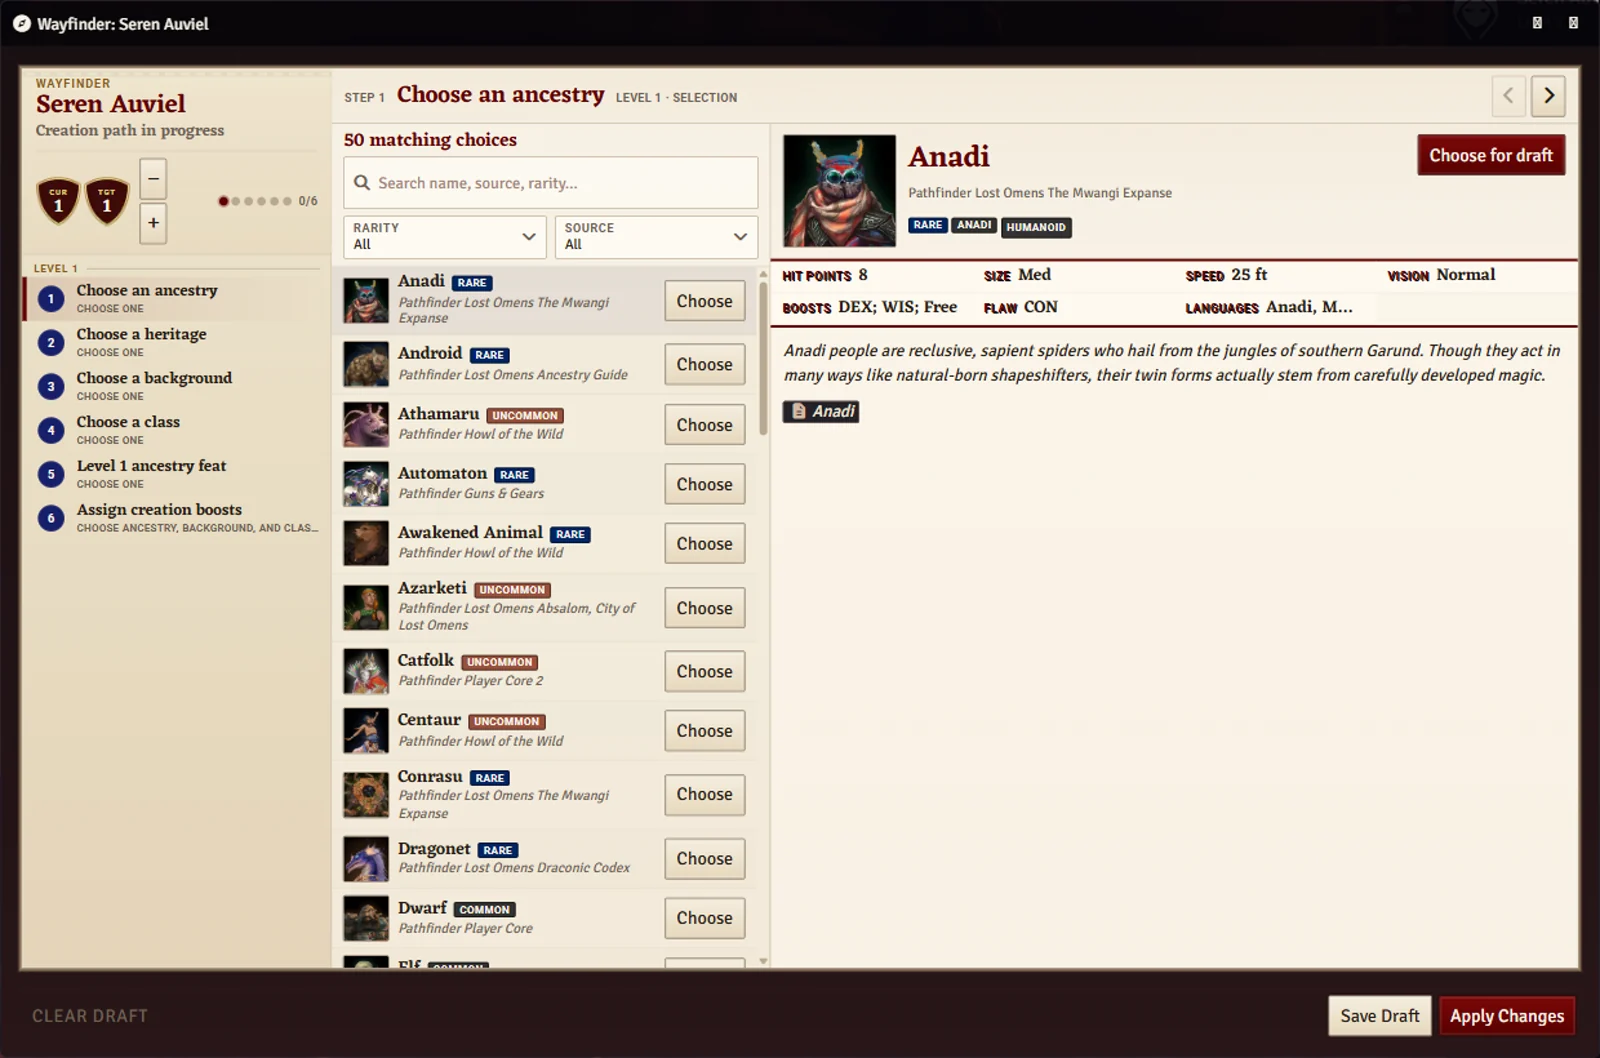
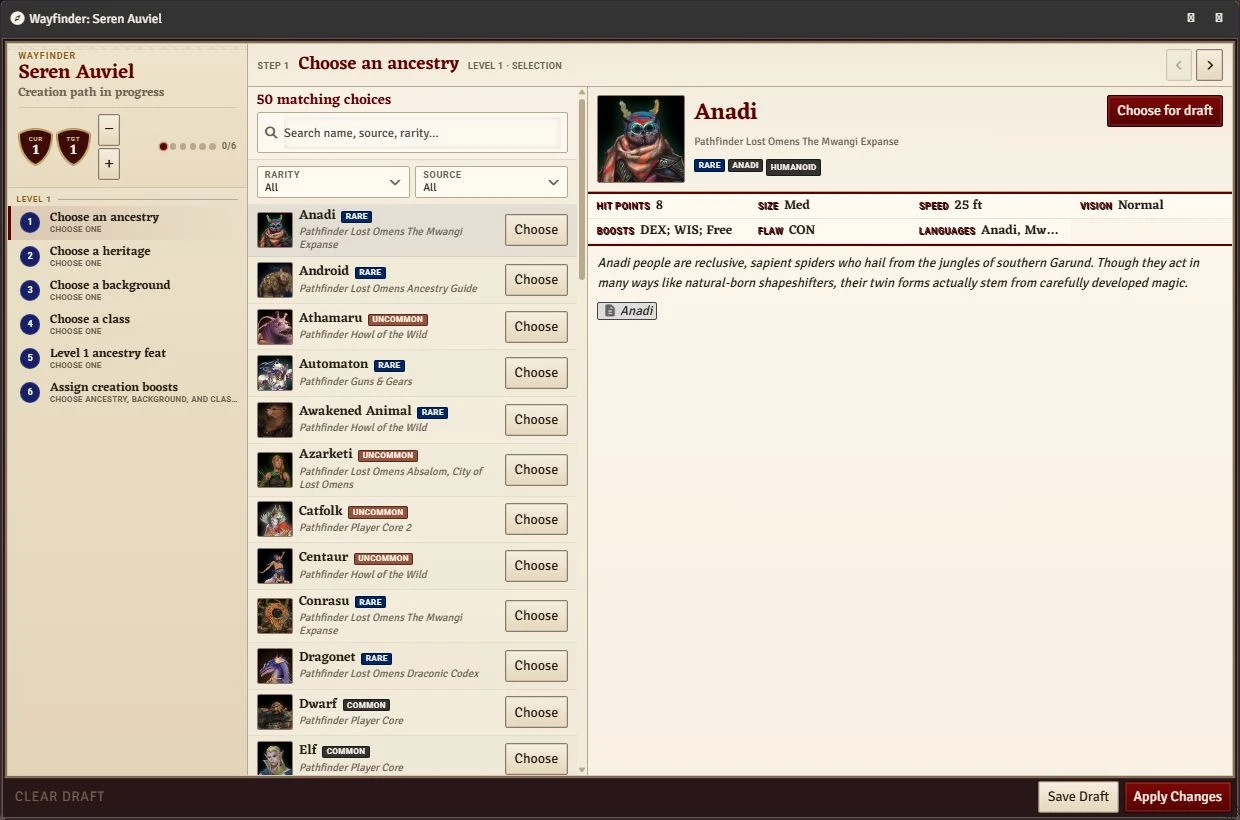
chore(release): prepare 0.7.0
Bumps the module to 0.7.0 and moves verified PF2E compatibility to
8.4.0, the version this release was tested against and the one whose
eidolon change it fixes.

Refreshes the README screenshots from the current build — the previous
set predated the single-scroll picker column, the skill choice grid,
and the spell picker's rank badges and pinned selections, so they no
longer showed the app people would install.

Changed region(s): [[0.0, 0.0, 1.0, 1.0]]

diff --git a/CHANGELOG.md b/CHANGELOG.md
@@ -1,5 +1,21 @@
 # Changelog
 
+## 0.7.0 - 2026-08-09
+
+- **PF2E 8.4 fix:** applying a Summoner no longer hangs. PF2E 8.4 changed the eidolon's tradition choice to a form Wayfinder did not recognize, so it was never offered or answered and PF2E waited on it indefinitely, leaving the character partly built. Apply now also fails with a clear message rather than waiting without end.
+- Archetype eligibility is checked rather than disclaimed. Wayfinder verifies that a dedication is not a duplicate or your own class's multiclass entry, that an existing dedication is not still owed two feats from its archetype, that an archetype feat belongs to a family you have a dedication for, and that supported skill-rank prerequisites are met — counting choices you have drafted, not only applied.
+- Choices carried by granted items are guided or announced instead of surprising you at apply. Cleric Dedication's deity and sanctification, Summoner Dedication's eidolon, and Commander's five tactics are planned in Wayfinder; anything still unmodelled says so on the option before you pick it.
+- Choices whose own rule conditions are unmet are no longer offered. A Fighter taking Commander Dedication is asked for the two tactics the dedication grants, not the five a Commander receives.
+- Ancestry Paragon and other campaign feat sections are planned. Wayfinder mirrors PF2E's own campaign feat sections, so variants supplied by a module or defined by a GM appear as feat steps and apply into the native group.
+- Gradual Ability Boosts follows PF2E's world setting, spreading each four-boost milestone across its levels using the system's own allowance formula.
+- Spell pickers show each spell's rank, filter by rank, and keep your current selections pinned in view — the difference between browsing 20 spells and 300.
+- GMs can set a world-wide spell rarity ceiling, so players see the uncommon or rare options a table allows without needing to find the per-step control.
+- Existing characters get a spell audit. Map Existing Character now reports whether a caster's known, spellbook, or repertoire contents match expectations for their level, naming deficits and marking surpluses for review without changing anything.
+- Witch familiars start with the spells they actually know — ten cantrips, five 1st-rank spells, and the patron's lesson spell — rather than the smaller daily-preparation numbers.
+- General feat slots admit skill feats, with trained, expert, master, and legendary prerequisites all enforced against drafted training.
+- Picker context notes wrap instead of truncating, so filter explanations can be read in full.
+- Verified against Foundry VTT 14.364 and PF2E 8.4.0 with a 41-case live matrix, including five classes built through level 10 and one through level 20 — the first coverage above level 5.
+
 ## 0.6.1 - 2026-07-26
 
 - General feat slots now admit qualifying skill feats while respecting projected skill ranks and other prerequisites across a multi-level draft.

diff --git a/README.md b/README.md
@@ -45,7 +45,7 @@ https://github.com/bestlux/wayfinder/releases/latest/download/module.json
 
 Foundry's package updater will follow it for future versions. Older releases stay installable from their own [release pages](https://github.com/bestlux/wayfinder/releases).
 
-**Requirements:** Foundry VTT v14 with the PF2E system (8.1 or newer). This release is verified against Foundry VTT 14.364 and PF2E 8.3.0.
+**Requirements:** Foundry VTT v14 with the PF2E system (8.1 or newer). This release is verified against Foundry VTT 14.364 and PF2E 8.4.0.
 
 ## Using Wayfinder
 
